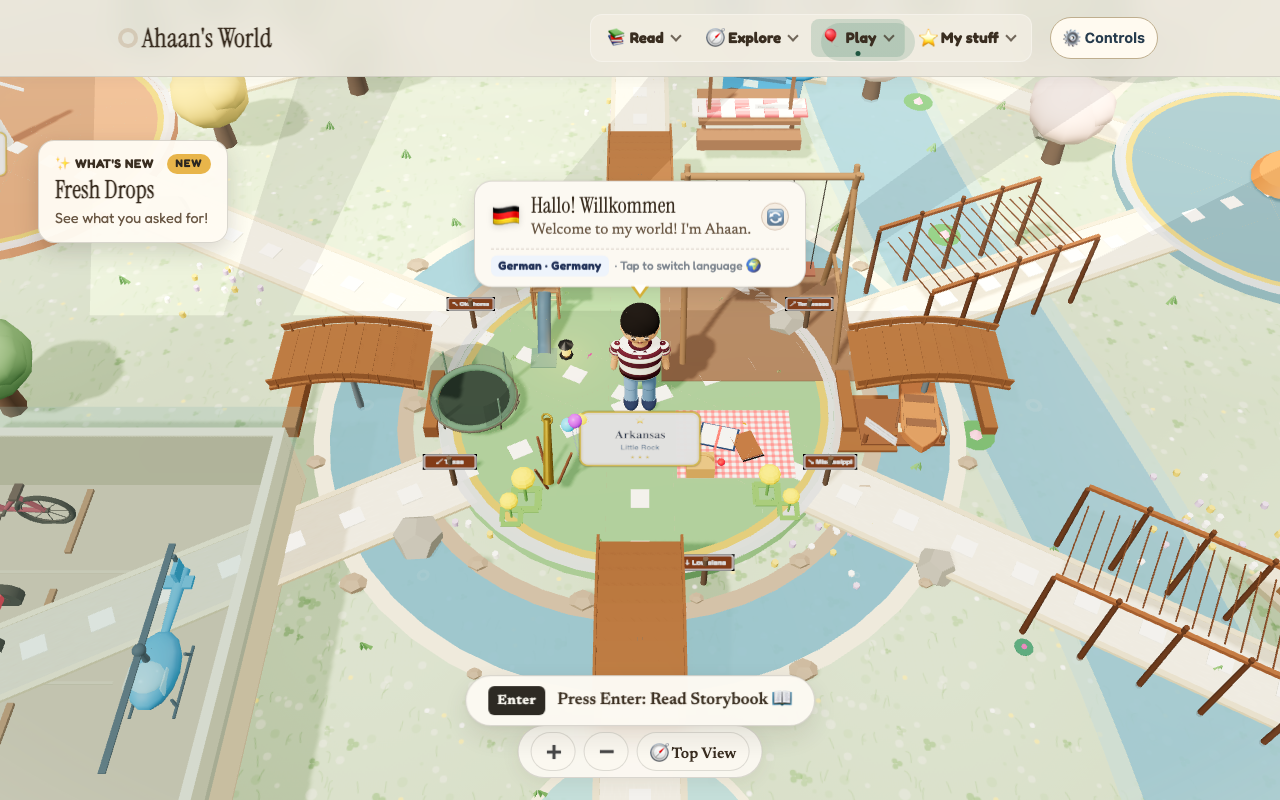
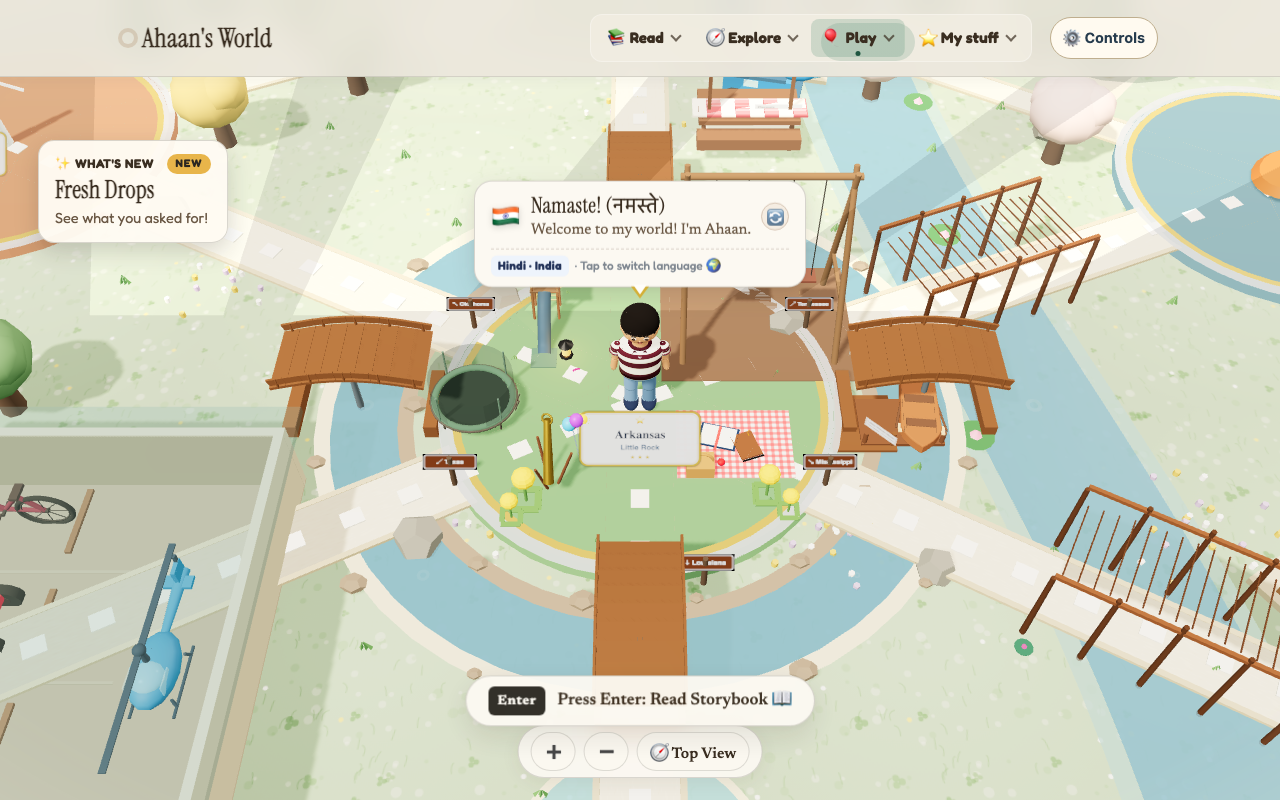
Save live lean nav screenshot

diff --git a/HANDOFF.md b/HANDOFF.md
@@ -1759,12 +1759,14 @@ When one job finishes, start the next brief without waiting. Update this HANDOFF
 - Read queue item 23 and `FEATURE-BRIEF-nav-lean.md` on `main` at `3f25e1f`.
 - The home nav had four grouped menus plus a full second row of Park controls. The day and weather panel had no close button.
 - Moved all Park controls into one Controls popover. Added an OK button that closes the panel and returns focus to Controls.
-- Kept the four grouped menus and all destinations. Added a Nov 27 Fresh Drops entry with a local screenshot preview.
+- Kept the four grouped menus and all destinations. Added a Nov 27 Fresh Drops entry with a live screenshot.
 - Added `tests/nav-lean-browser.cjs` for desktop and mobile nav, panel behavior, controls, and browser errors.
 - Desktop and mobile browser checks passed. Four nav groups and all destinations passed. The single Controls button opened the panel. Day, Night, Auto, weather, Breeze, Sound, and Play together controls worked.
 - The OK button closed the panel and returned focus to Controls on both viewports. No horizontal overflow or browser errors appeared.
 - Updated `tests/water-park-fresh-drops-browser.cjs`. Its desktop and mobile checks passed for the new card, the Park realism card, older entries, images, and NEW labels.
 - `node --check assets/shared.js`, `node --check tests/nav-lean-browser.cjs`, `node --check tests/water-park-fresh-drops-browser.cjs`, and `git diff --check` passed.
 - Local evidence: `/tmp/ahaan-nav-lean/local-final/desktop.png`, `desktop-controls.png`, `mobile.png`, `mobile-menu.png`, and `mobile-controls.png`.
-- The Fresh Drops entry uses a local screenshot preview at `public/fresh-drops/2026-11-27-nav-lean.png`.
-- Next: commit and publish the verified nav, replace the preview with the live screenshot, and live-verify desktop and mobile.
+- Commit `2bb9bcd` (`Slim Park navigation and add controls`) was pushed to main. Pages run `46058446896` succeeded.
+- Live desktop and mobile browser checks passed. All nav destinations returned HTTP 200. All controls worked, the Fresh Drops NEW label showed, and browser errors were empty.
+- Live evidence: `/tmp/ahaan-nav-lean/live/desktop.png`, `desktop-controls.png`, `mobile.png`, `mobile-menu.png`, `mobile-controls.png`, `desktop-fresh-drops.png`, and `mobile-fresh-drops.png`.
+- Replaced the Fresh Drops image with the live desktop screenshot. Next: publish the screenshot replacement and run the final live check.
